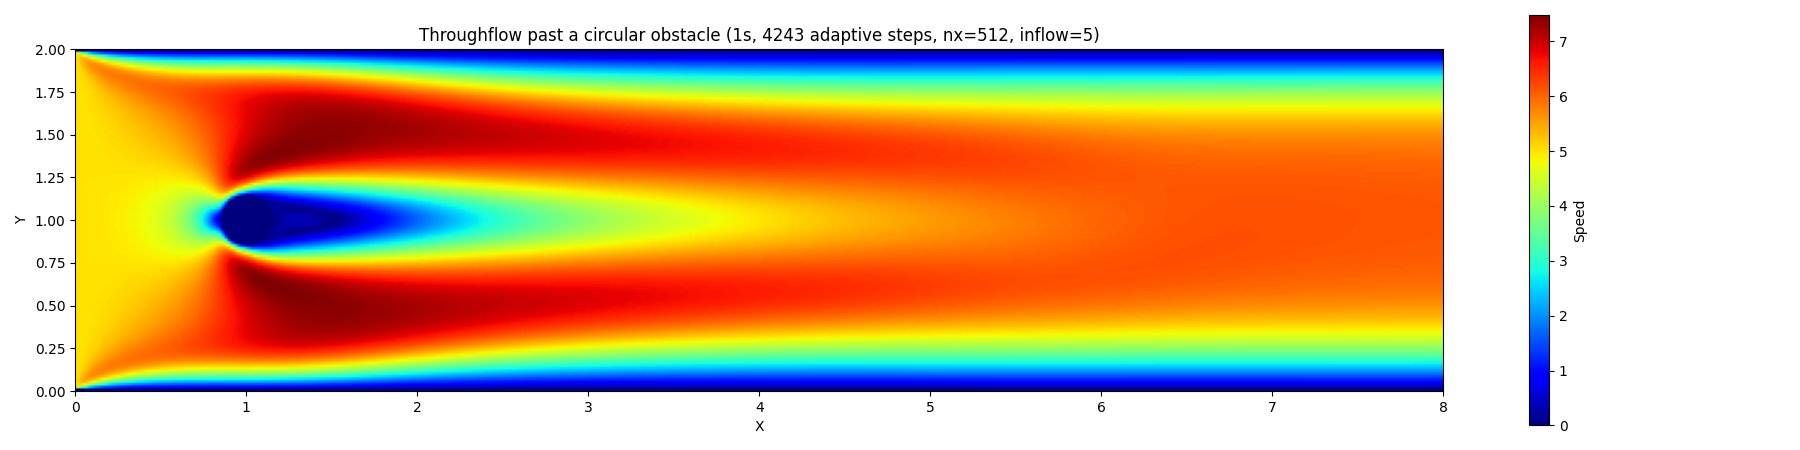
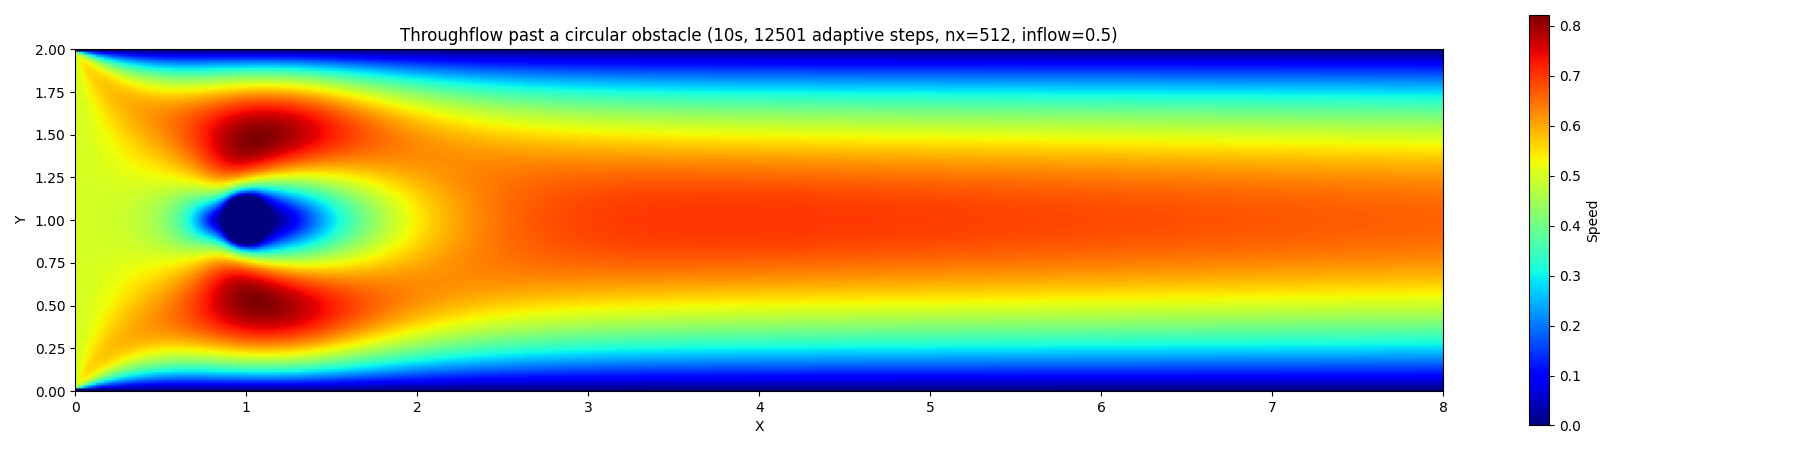
Fixing cow_cock demo so it uses renderers output. Added a new "jet" demo

diff --git a/demo/jet.py b/demo/jet.py
@@ -1,0 +1,56 @@
+import argparse
+import os
+import time
+
+import cv2
+import numpy as np
+
+from fast_flow import ElectrostaticForceHandler, FlowSolver
+from fast_flow.core.renderer import Renderer
+
+TOTAL_TIME = 5.0
+
+if __name__ == '__main__':
+    img = cv2.imread('./res/jet.png')
+    img = cv2.flip(img, 0)
+    ny, nx = img.shape[0], img.shape[1]
+    print(f'Loaded image: dims=({ny}, {nx})')
+
+    # channel 2 (red) = cow -> +charge; channel 0 (blue) =
+    # rooster -> -charge
+    handler = ElectrostaticForceHandler(
+        img, layermap={2: 20000, 0: -20000})
+    renderer = Renderer("jet", 120, ny, nx)
+    solver = FlowSolver(img=img, nit=50, rho=1.0, nu=0.05,
+                        boundary="throughflow",
+                        inflow_velocity=0.001,
+                        lx=8.0, ly=5.0,
+                        force_handlers=[handler],
+                        renderer=renderer)
+
+    renderer.run()
+    t0 = time.perf_counter()
+    steps = solver.run(TOTAL_TIME)
+    wall = time.perf_counter() - t0
+
+    u = solver.horizontal_velocity
+    v = solver.vertical_velocity
+    speed = np.hypot(u, v)
+    solid = solver.solid.astype(bool)
+    density = handler.ion_density()
+    print('----------- RESULTS ------------')
+    print(f"steps taken: {steps}\n\tsimulated time: {solver.time:.6f}s")
+    print(f"wall-clock runtime: {wall:.2f}s\n\t"
+          f"iterations per second: {steps / wall:.1f}")
+    print(f"finite: {np.isfinite(u).all() and np.isfinite(v).all()}\n\t"
+          f"max speed outside obstacle: {speed[~solid].max():.3f}\n\t"
+          f"max speed inside obstacle: {speed[solid].max():.3g}")
+    print(f"ion density: total {density.sum():.1f}, "
+          f"max {density.max():.3f}")
+
+    out_dir = os.path.join(
+        os.path.dirname(os.path.abspath(__file__)), 'out')
+    os.makedirs(out_dir, exist_ok=True)
+    out = os.path.join(out_dir, 'jet_velocity.png')
+    renderer.save(out)
+    print(f"saved {out}")

diff --git a/demo/throughflow_circle.py b/demo/throughflow_circle.py
@@ -28,6 +28,7 @@ import matplotlib.pyplot as plt
 import numpy as np
 
 from fast_flow import FlowSolver
+from fast_flow.core.renderer import Renderer
 
 
 def parse_args():
@@ -37,12 +38,14 @@ def parse_args():
     p.add_argument("--ny", type=int, default=128)
     p.add_argument("--lx", type=float, default=8.0)
     p.add_argument("--ly", type=float, default=2.0)
-    p.add_argument("--inflow", type=float, default=5.0)
+    p.add_argument("--inflow", type=float, default=0.5)
     p.add_argument("--nu", type=float, default=0.05)
     p.add_argument("--dt", type=float, default=0.0001,
                    help="nominal dt; actual steps scale it by "
                         "powers of two to stay stable")
-    p.add_argument("--total-time", type=float, default=1.0,
+    p.add_argument("--fps", type=int, default=120,
+                   help="render frames per simulated second")
+    p.add_argument("--total-time", type=float, default=10.0,
                    help="simulated seconds to advance "
                         "(default 1.0 = 10000 steps x 0.0001)")
     p.add_argument("--out", default=None)
@@ -55,10 +58,15 @@ def parse_args():
 if __name__ == '__main__':
     args = parse_args()
     img = np.zeros((args.nx * args.ny), dtype=np.uint8).reshape((args.ny, args.nx))
+    renderer = Renderer("ehd_cow_cock", args.fps, args.ny, args.nx)
     solver = FlowSolver(img, nit=50, nu=args.nu,
                         dt=args.dt, boundary="throughflow",
                         inflow_velocity=args.inflow,
-                        lx=args.lx, ly=args.ly)
+                        lx=args.lx, ly=args.ly,
+                        renderer=renderer)
+    renderer.run()
+
+
 
     # circular obstacle: centre (1.0, 1.0), radius 0.15, as a polygon
     theta = np.linspace(0, 2 * np.pi, 96, endpoint=False)

diff --git a/demo/ehd_cow_cock.py b/demo/ehd_cow_cock.py
@@ -48,9 +48,9 @@ def parse_args():
     p.add_argument("--nu", type=float, default=0.05)
     p.add_argument("--total-time", type=float, default=1.0,
                    help="simulated seconds to advance")
-    p.add_argument("--charge", type=float, default=20000.0,
+    p.add_argument("--charge", type=float, default=40000.0,
                    help="cow gets +charge, rooster gets -charge")
-    p.add_argument("--fps", type=int, default=30,
+    p.add_argument("--fps", type=int, default=120,
                    help="renderer frames per simulated second")
     p.add_argument("--out-dir", default=None)
     return p.parse_args()
@@ -75,6 +75,7 @@ if __name__ == '__main__':
                         force_handlers=[handler],
                         renderer=renderer)
 
+    renderer.run()
     t0 = time.perf_counter()
     steps = solver.run(args.total_time)
     wall = time.perf_counter() - t0
@@ -99,11 +100,11 @@ if __name__ == '__main__':
     os.makedirs(out_dir, exist_ok=True)
     out = os.path.join(out_dir, 'ehd_cow_cock_velocity.png')
 
+
     # The renderer's buffer is in solver order (row 0 = the
     # domain's bottom, y-up), while cv2 writes row 0 at the
     # top of the image -- so flip the saved frame back to
     # the input image's orientation, mirroring the
     # cv2.flip applied to the input above.
     renderer.save(out)
-    cv2.imwrite(out, cv2.flip(cv2.imread(out), 0))
     print(f"saved {out}")

diff --git a/demo/throughflow_cow_cock.py b/demo/throughflow_cow_cock.py
@@ -7,6 +7,7 @@ import numpy as np
 import cv2
 
 from fast_flow import FlowSolver
+from fast_flow.core.renderer import Renderer
 
 
 def parse_args():
@@ -15,6 +16,8 @@ def parse_args():
     p.add_argument("--ly", type=float, default=3.0)
     p.add_argument("--inflow", type=float, default=2.0)
     p.add_argument("--nu", type=float, default=0.05)
+    p.add_argument("--fps", type=int, default=120,
+                   help="renderer frames per simulated second")
     p.add_argument("--total-time", type=float, default=1.0,
                    help="simulated seconds to advance "
                         "(default 1.0 = 10000 steps x 0.0001)")
@@ -29,11 +32,14 @@ if __name__ == '__main__':
     img = cv2.flip(img, 0)
 
     print(f'Loaded image: dims=({img.shape[0]}, {img.shape[1]})')
+    renderer = Renderer("ehd_cow_cock", args.fps, img.shape[0], img.shape[1])
     solver = FlowSolver(img=img, nit=50, nu=args.nu,
                         boundary="throughflow",
                         inflow_velocity=args.inflow,
-                        lx=args.lx, ly=args.ly)
+                        lx=args.lx, ly=args.ly,
+                        renderer = renderer)
 
+    renderer.run()
     start_time = time.time_ns()
     steps = solver.run(args.total_time)
     end_time = time.time_ns()
